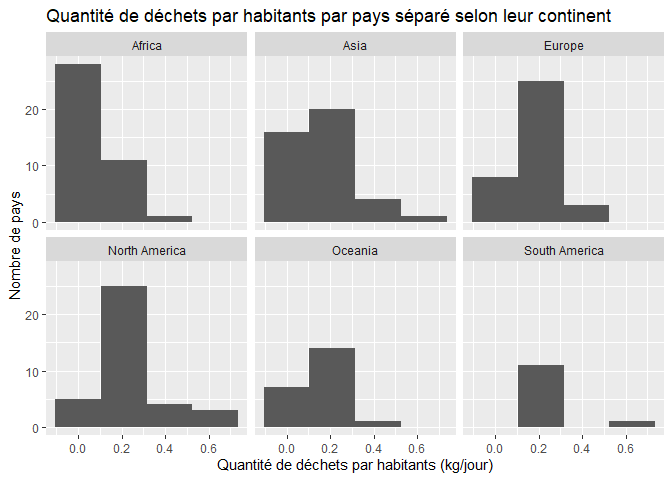
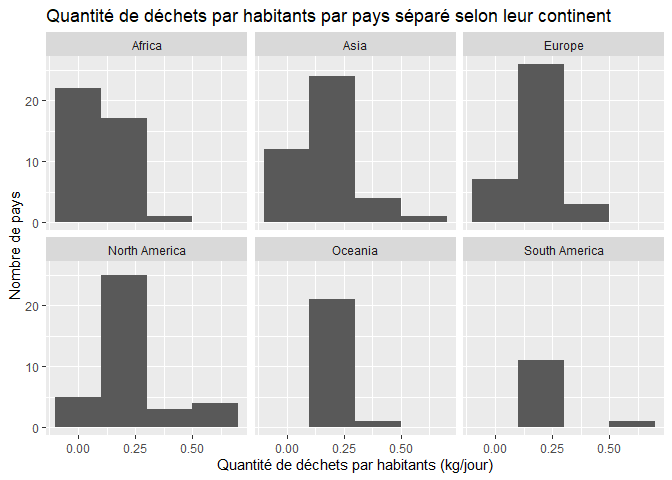
Lab 2 version finale

diff --git a/lab-02.md b/lab-02.md
@@ -29,7 +29,7 @@ plastic_waste <- plastic_waste %>%
 plastic_waste <- plastic_waste %>%
   filter(plastic_waste_per_cap <3.5)
 ggplot(plastic_waste,aes(x=plastic_waste_per_cap))+
-  geom_histogram(binwidth=0.21)+
+  geom_histogram(binwidth=0.2)+
   facet_wrap(~continent,ncol=3)+
   labs(title="Quantité de déchets par habitants par pays séparé selon leur continent", x="Quantité de déchets par habitants (kg/jour)", y="Nombre de pays")
 ```
